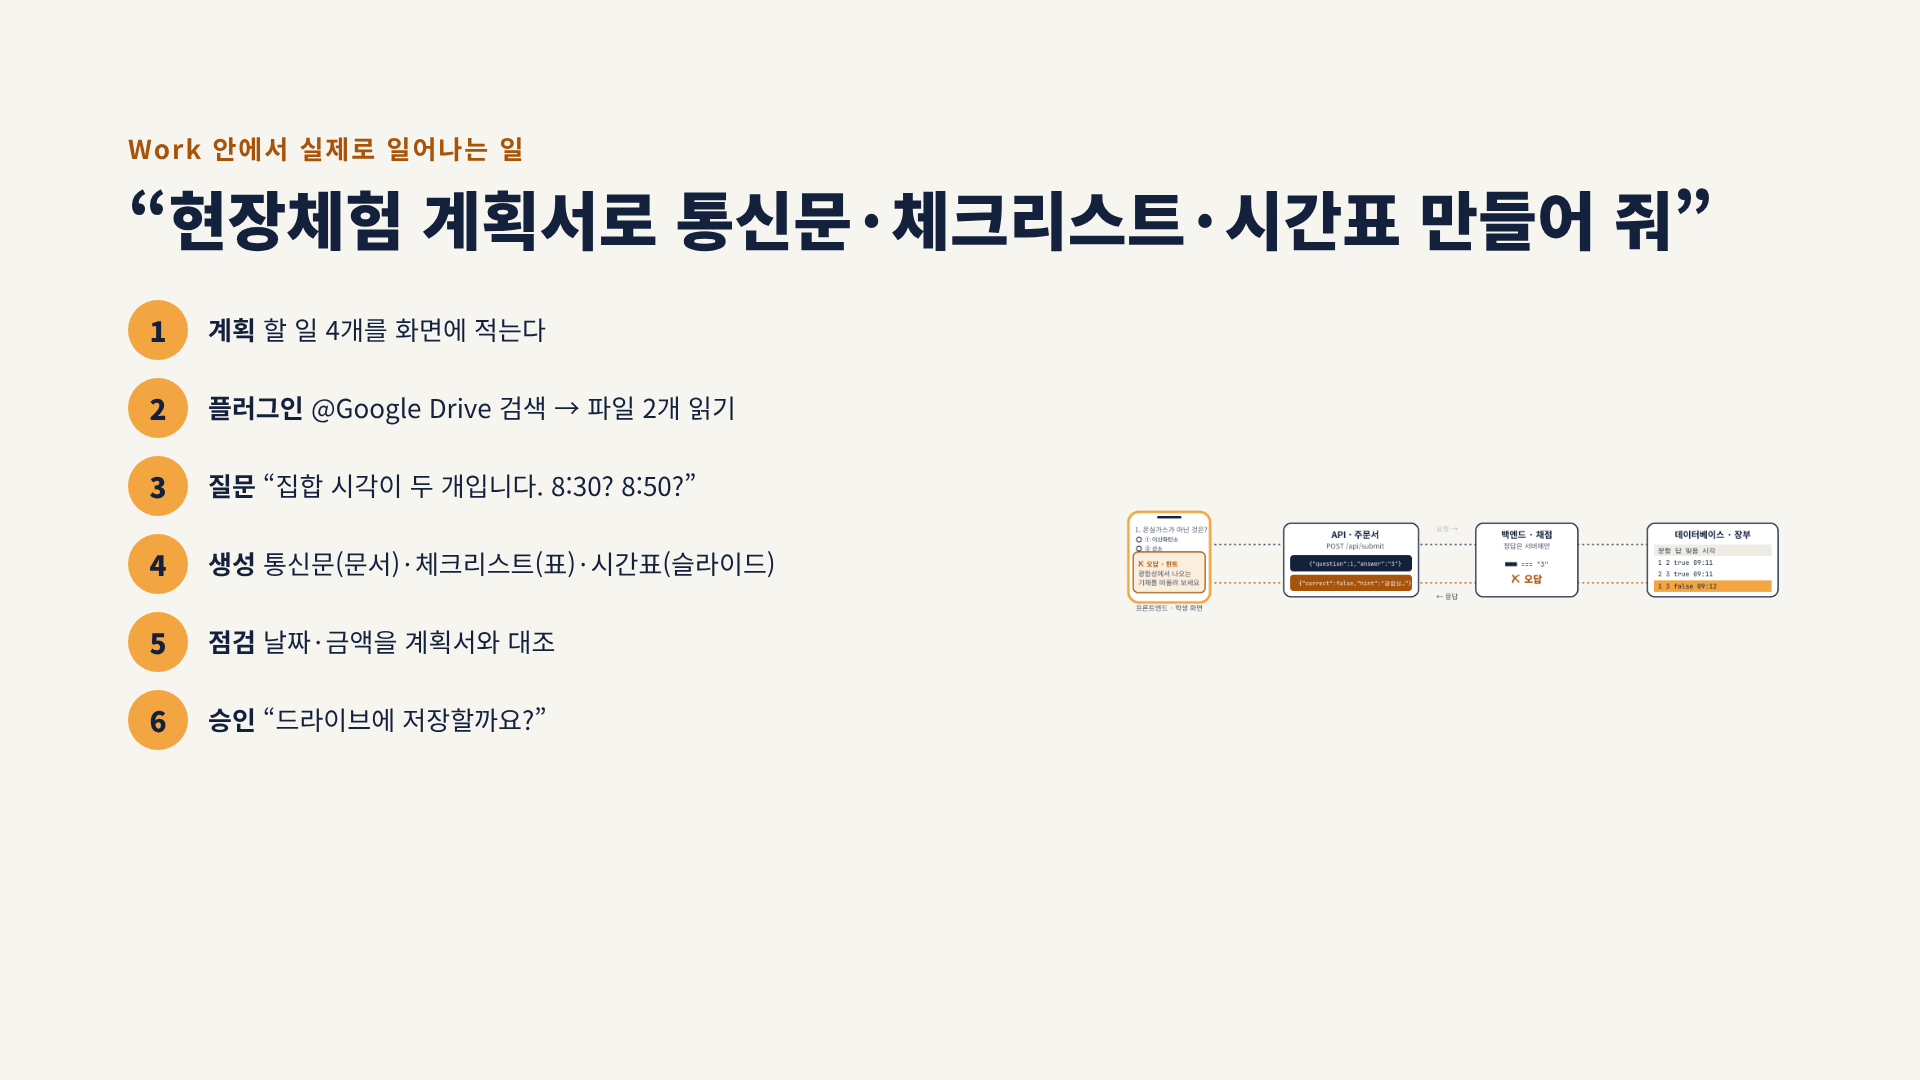
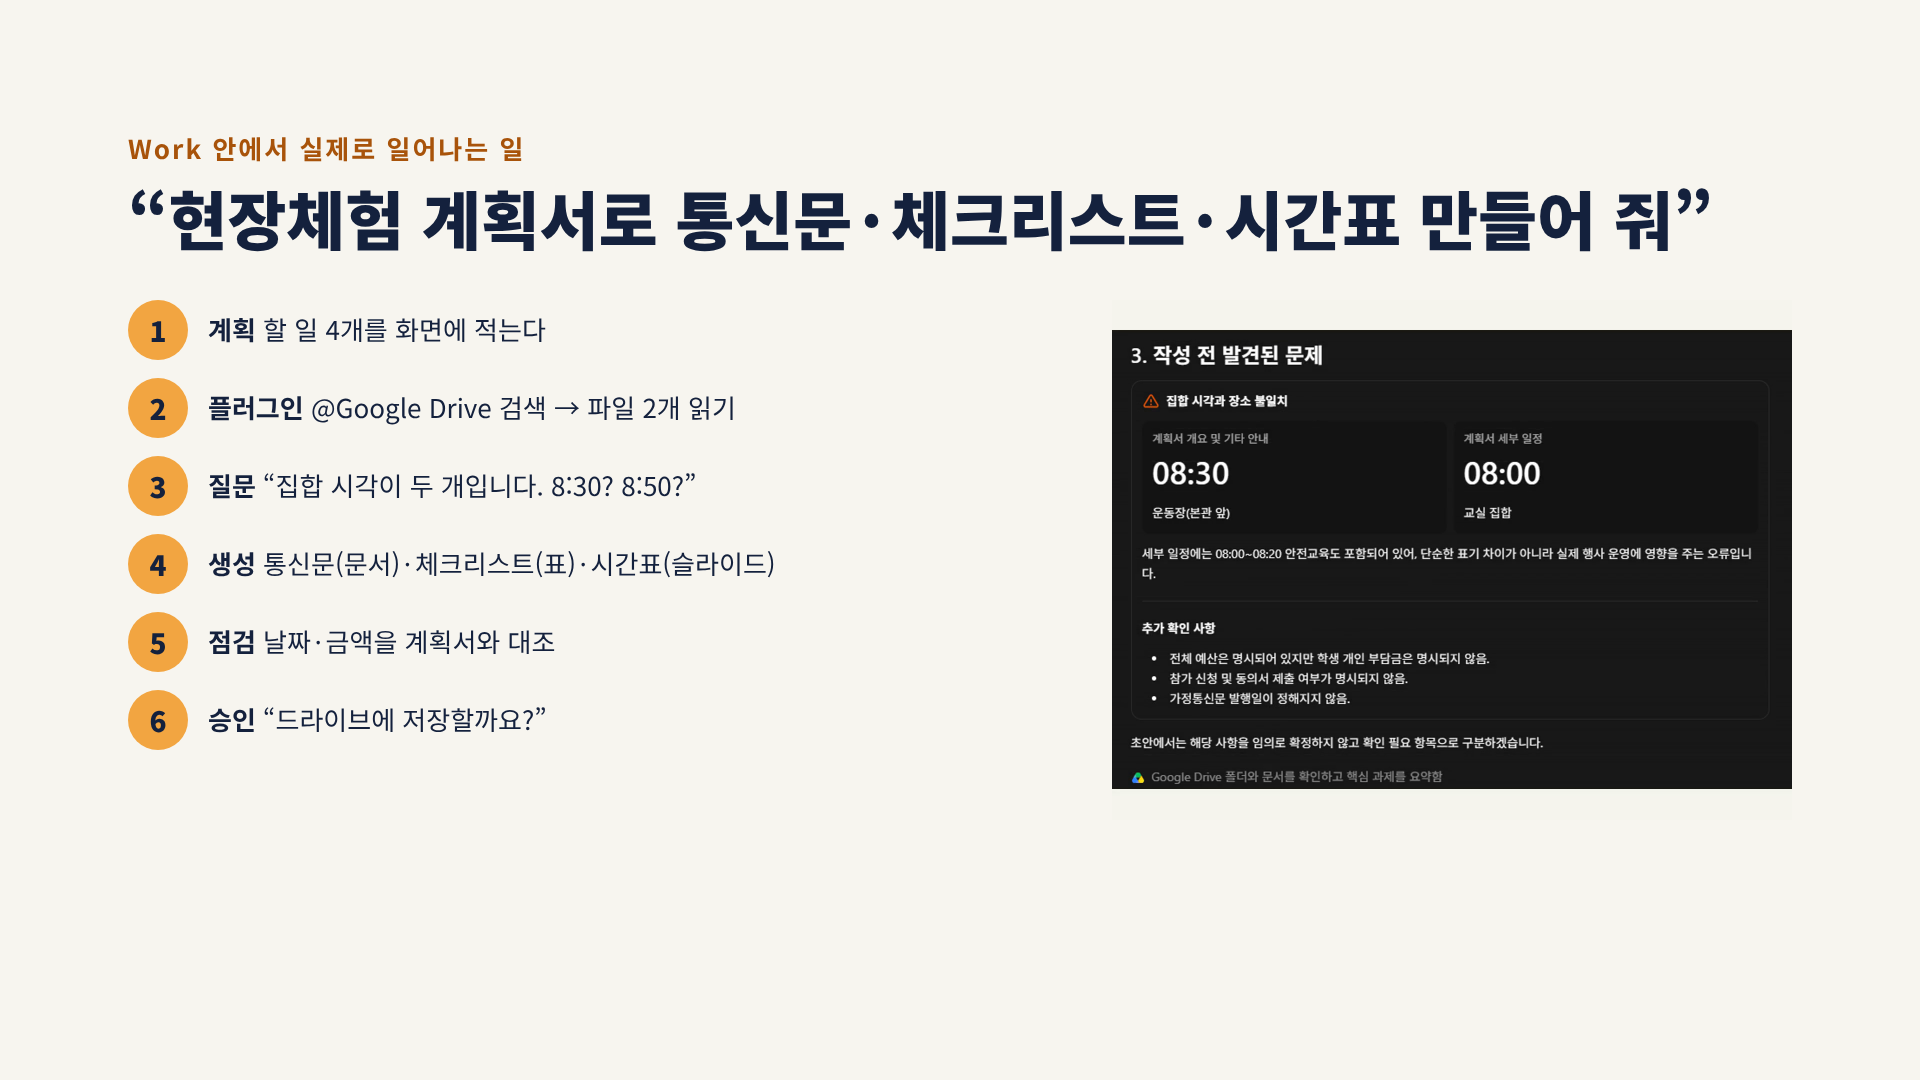
fix(slides): each video uses its own poster
Claude-Session: https://claude.ai/code/session_01X9Cu7kXyf2RmgFc2W4fjCr

Changed region(s): [[0.5625, 0.3056, 0.9375, 0.7333]]

diff --git a/public/slides/sw.js b/public/slides/sw.js
@@ -1,6 +1,6 @@
 // generated by scripts/build-slides.mjs — offline cache for /slides only (never /api)
-const CACHE = "slides-c2486c465991";
-const PRECACHE = ["/slides/","/slides/fonts.css","/slides/assets/IMG-01_cover-hero.png","/slides/assets/IMG-02a_chatbot.svg","/slides/assets/IMG-02b_workflow.svg","/slides/assets/IMG-02c_agent.svg","/slides/assets/IMG-03_restaurant.png","/slides/assets/VID-01_submit-flow.mp4","/slides/assets/VID-01_poster.png","/slides/assets/IMG-04_neis-api.png","/slides/assets/IMG-05a_chat.svg","/slides/assets/IMG-05b_work.svg","/slides/assets/IMG-05c_code.svg","/slides/assets/IMG-06_work-ui.png","/slides/assets/VID-02_work-trace.mp4","/slides/assets/IMG-09a_manual.svg","/slides/assets/IMG-09b_usbc.svg","/slides/assets/IMG-10_plugin-install.png","/slides/assets/IMG-11_mcp-approve.png","/slides/assets/IMG-12_skill-create.png","/slides/assets/IMG-13_skill-folder.svg","/slides/assets/IMG-14_logos-row.png","/slides/assets/IMG-16_classroom.png","/slides/assets/IMG-17_quiz-phone.png","/slides/fonts/noto-sans-kr-400.woff2","/slides/fonts/noto-sans-kr-700.woff2","/slides/fonts/noto-sans-kr-900.woff2"];
+const CACHE = "slides-489d16e4ccc2";
+const PRECACHE = ["/slides/","/slides/fonts.css","/slides/assets/IMG-01_cover-hero.png","/slides/assets/IMG-02a_chatbot.svg","/slides/assets/IMG-02b_workflow.svg","/slides/assets/IMG-02c_agent.svg","/slides/assets/IMG-03_restaurant.png","/slides/assets/VID-01_submit-flow.mp4","/slides/assets/VID-01_poster.png","/slides/assets/IMG-04_neis-api.png","/slides/assets/IMG-05a_chat.svg","/slides/assets/IMG-05b_work.svg","/slides/assets/IMG-05c_code.svg","/slides/assets/IMG-06_work-ui.png","/slides/assets/VID-02_work-trace.mp4","/slides/assets/VID-02_poster.png","/slides/assets/IMG-09a_manual.svg","/slides/assets/IMG-09b_usbc.svg","/slides/assets/IMG-10_plugin-install.png","/slides/assets/IMG-11_mcp-approve.png","/slides/assets/IMG-12_skill-create.png","/slides/assets/IMG-13_skill-folder.svg","/slides/assets/IMG-14_logos-row.png","/slides/assets/IMG-16_classroom.png","/slides/assets/IMG-17_quiz-phone.png","/slides/fonts/noto-sans-kr-400.woff2","/slides/fonts/noto-sans-kr-700.woff2","/slides/fonts/noto-sans-kr-900.woff2"];
 self.addEventListener("install", (e) => { e.waitUntil(caches.open(CACHE).then((c) => c.addAll(PRECACHE)).then(() => self.skipWaiting())); });
 self.addEventListener("activate", (e) => { e.waitUntil(caches.keys().then((ks) => Promise.all(ks.filter((k) => k.startsWith("slides-") && k !== CACHE).map((k) => caches.delete(k)))).then(() => self.clients.claim())); });
 self.addEventListener("fetch", (e) => {

diff --git a/public/slides/index.html b/public/slides/index.html
@@ -340,7 +340,7 @@ html,body{margin:0;height:100%;background:#0d1730;font-family:'Noto Sans KR',Ari
 <div class="mini"><div class="num">5</div><p><b>점검</b> 날짜·금액을 계획서와 대조</p></div>
 <div class="mini"><div class="num">6</div><p><b>승인</b> “드라이브에 저장할까요?”</p></div>
 </div>
-<div data-asset="VID-02" title="Work 진행 화면 녹화 60초 계획 → 검색 → 질문 → 생성 → 승인" style="width:680px;height:520px;"><video src="/slides/assets/VID-02_work-trace.mp4" poster="/slides/assets/VID-01_poster.png" muted loop autoplay playsinline aria-label="Work에 ‘현장체험 준비’ 요청 → 계획 → 드라이브 검색 → 질문 → 파일 3개 생성 → 승인 요청 (배속 편집, 60초 이하)" style="width:100%;height:100%;object-fit:contain"></video></div>
+<div data-asset="VID-02" title="Work 진행 화면 녹화 60초 계획 → 검색 → 질문 → 생성 → 승인" style="width:680px;height:520px;"><video src="/slides/assets/VID-02_work-trace.mp4" poster="/slides/assets/VID-02_poster.png" muted loop autoplay playsinline aria-label="Work에 ‘현장체험 준비’ 요청 → 계획 → 드라이브 검색 → 질문 → 파일 3개 생성 → 승인 요청 (배속 편집, 60초 이하)" style="width:100%;height:100%;object-fit:contain"></video></div>
 </div>
 
 </section>
